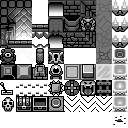
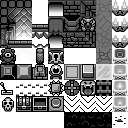
Polish GameObjects for Editor Use
fixed collision rec for pillar object.
fixed collision rec for lever object.

fixed cellsize for pit top and bottom.
created sprite + animation for 'deadly liquid'.
this will serve as the base for the pit objects.

added PitAnimated ObjType & ObjAnimList.
updated Functions_GameObj to handle PitAnimated.
playtested, working but with some visual bugs.

Changed region(s): [[0.5, 0.875, 0.875, 1.0]]

diff --git a/GameClasses/Functions_GameObject.cs b/GameClasses/Functions_GameObject.cs
@@ -190,20 +190,29 @@ namespace DungeonRun
 
             #region Pits
 
-            else if (Type == ObjType.PitTop)
+            else if (Type == ObjType.PitAnimated)
             {
-                //pits dont collide with actors
+                //this pit interacts with actor
+                Obj.compSprite.zOffset = -40; //sort under pit decorations
+                Obj.compCollision.offsetX = -5; Obj.compCollision.offsetY = -5;
+                Obj.compCollision.rec.Width = 10; Obj.compCollision.rec.Height = 10;
+                Obj.compCollision.blocking = false;
+            }
+            else if (Type == ObjType.PitTop)
+            {   //this is pit decoration
                 Obj.compSprite.zOffset = -32; //sort to floor
+                //Obj.compSprite.cellSize.X = 8;
+                Obj.compSprite.cellSize.Y = 8;
             }
             else if (Type == ObjType.PitBottom)
-            {
-                //instead we'll use an animated liquid obj for collision checking
-                //pits just sit ontop of this object as decoration
+            {   //this is pit decoration
                 Obj.compSprite.zOffset = -32; //sort to floor
+                //Obj.compSprite.cellSize.X = 8;
+                Obj.compSprite.cellSize.Y = 8;
             }
             else if (
                 Type == ObjType.PitTrapReady || Type == ObjType.PitTrapOpening)
-            {
+            {   //this becomes a pit
                 Obj.compCollision.offsetX = -6;
                 Obj.compCollision.offsetY = -6;
                 Obj.compSprite.zOffset = -32; //sort to floor
@@ -313,8 +322,8 @@ namespace DungeonRun
             else if (Type == ObjType.Pillar)
             {
                 Obj.compSprite.zOffset = 2;
-                Obj.compCollision.rec.Width = 8;
-                Obj.compCollision.offsetX = 4;
+                Obj.compCollision.rec.Width = 10;
+                Obj.compCollision.offsetX = -5;
             }
             else if (Type == ObjType.Flamethrower)
             {
@@ -344,8 +353,8 @@ namespace DungeonRun
             }
             else if (Type == ObjType.Lever)
             {
-                Obj.compCollision.offsetX = -6; Obj.compCollision.offsetY = 1;
-                Obj.compCollision.rec.Width = 12; Obj.compCollision.rec.Height = 3;
+                Obj.compCollision.offsetX = -7; Obj.compCollision.offsetY = 2;
+                Obj.compCollision.rec.Width = 12; Obj.compCollision.rec.Height = 5;
                 Obj.compSprite.zOffset = -7;
             }
 

diff --git a/DungeonRunRoomBuilder/RoomBuilder/RoomBuilderClasses/WidgetRoomBuilder.cs b/DungeonRunRoomBuilder/RoomBuilder/RoomBuilderClasses/WidgetRoomBuilder.cs
@@ -127,11 +127,11 @@ namespace DungeonRun
                     }
                     else if (i == 5) //sixth row
                     {
-                        //if (j == 0) { Functions_GameObject.SetType(obj, ObjType.PitTop); }
-                        //else if (j == 1) { Functions_GameObject.SetType(obj, ObjType.PitBottom); }
-                        if (j == 2) { Functions_GameObject.SetType(obj, ObjType.PitTrapReady); }
-                        else if (j == 3) { Functions_GameObject.SetType(obj, ObjType.Bridge); }
-                        //else if (j == 4) { Functions_GameObject.SetType(obj, ObjType.ice); }
+                        if (j == 0) { Functions_GameObject.SetType(obj, ObjType.PitAnimated); }
+                        else if (j == 1) { Functions_GameObject.SetType(obj, ObjType.PitTop); }
+                        else if (j == 2) { Functions_GameObject.SetType(obj, ObjType.PitBottom); }
+                        else if (j == 3) { Functions_GameObject.SetType(obj, ObjType.PitTrapReady); }
+                        else if (j == 4) { Functions_GameObject.SetType(obj, ObjType.Bridge); }
                     }
                     else if (i == 6) //seventh row
                     {

diff --git a/GameClasses/Enumerators.cs b/GameClasses/Enumerators.cs
@@ -52,7 +52,7 @@ namespace DungeonRun
         BossDecal, DebrisFloor,
 
         //Editor Room Objects (hand-placed)
-        PitTop, PitBottom, PitTrapReady, PitTrapOpening,
+        PitAnimated, PitTop, PitBottom, PitTrapReady, PitTrapOpening,
         BossStatue, Pillar,
         ChestGold, ChestKey, ChestMap, ChestHeartPiece, ChestEmpty,
         BlockDraggable, BlockDark, BlockLight, BlockSpikes,

diff --git a/GameClasses/Functions_GameObjectAnimList.cs b/GameClasses/Functions_GameObjectAnimList.cs
@@ -76,6 +76,8 @@ namespace DungeonRun
 
                 #region Editor Room Objects
 
+                //PitAnimated
+                new List<Byte4> { new Byte4(4, 7, 0, 0), new Byte4(5, 7, 0, 0), new Byte4(6, 7, 0, 0) },
                 //PitTop
                 new List<Byte4> { new Byte4(2, 4, 0, 0) },
                 //PitBottom
